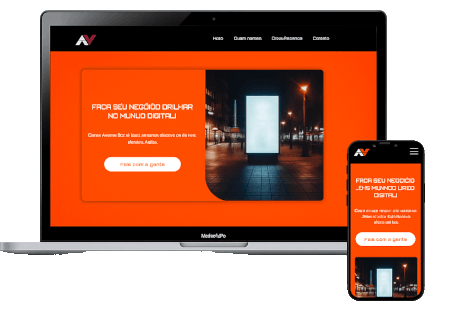
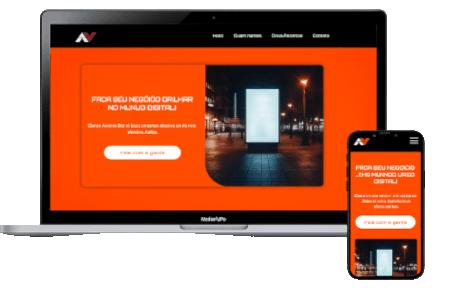
uppp

diff --git a/index.html b/index.html
@@ -60,7 +60,7 @@
           </li>
 
           <li>
-            <a href="https://avante-digital.netlify.app/" target="_blank"><img src="./images/notbook-avante-png.png"
+            <a href="https://avante-digital.netlify.app/" target="_blank"><img src="./images/imagem-teste.png"
                 alt="site-barber"></a>
             <h2 class="font-montserrat cor-0">Avante Digital</h2>
             <p class="font-montserrat cor-3">Avante Digital é uma agência de marketing especializada em impulsionar
